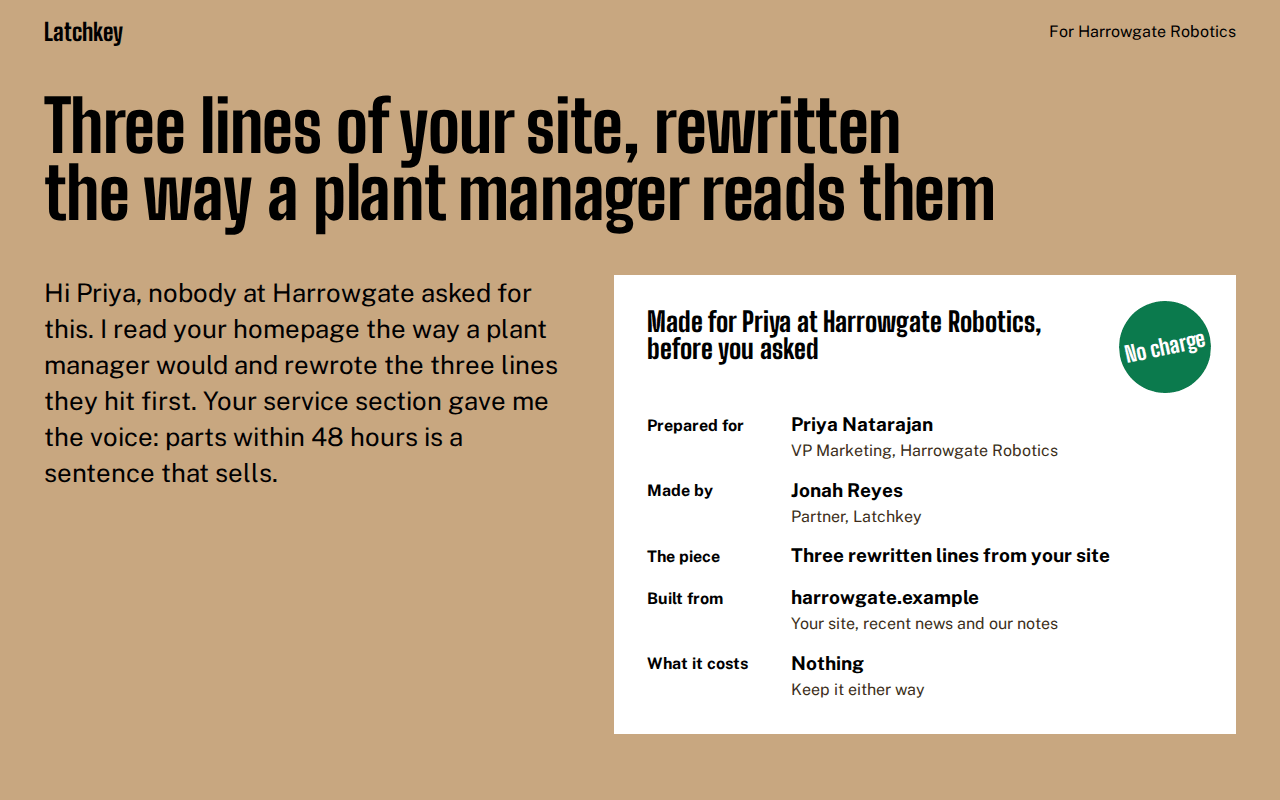
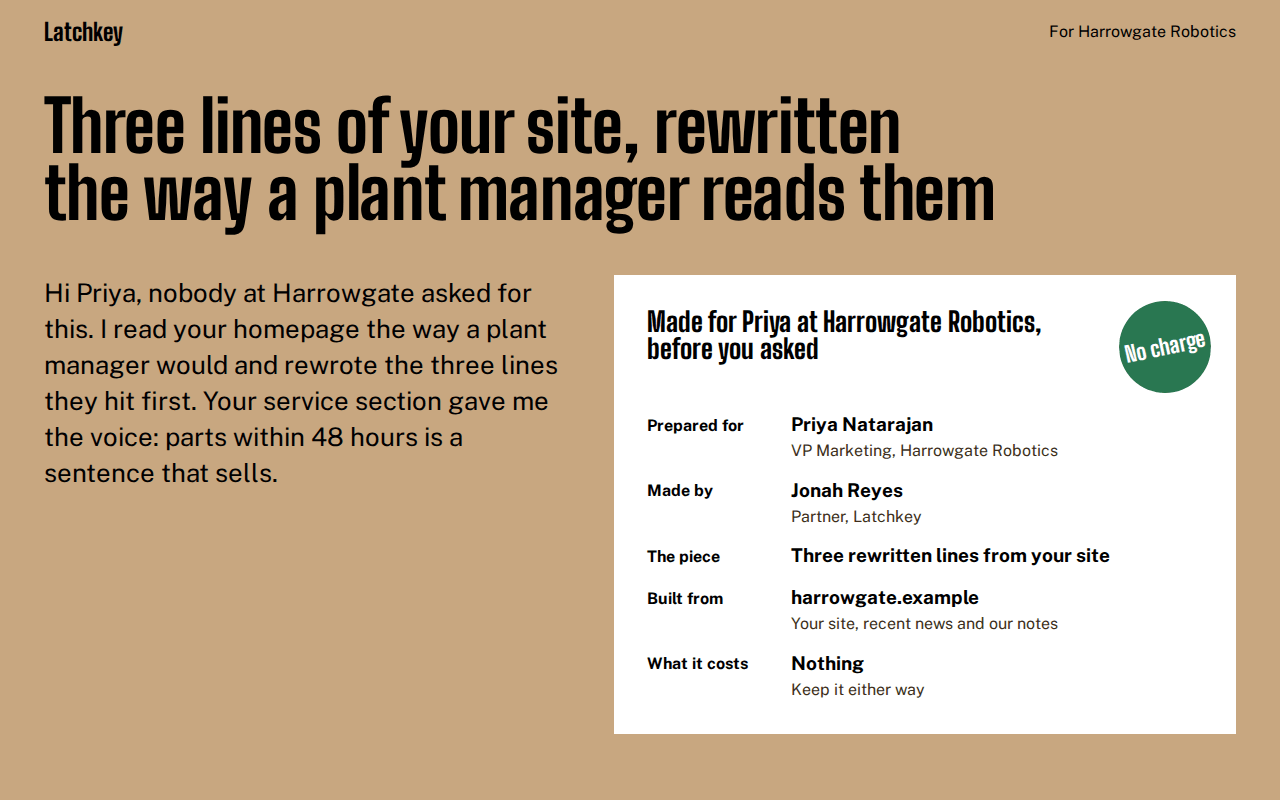
Library colour pass: sample-work, softer stamp green

Changed region(s): [[0.875, 0.375, 0.9688, 0.5]]

diff --git a/starters/sample-work/preview/harrowgate.html b/starters/sample-work/preview/harrowgate.html
@@ -9,7 +9,7 @@
 <link rel="stylesheet" href="https://fonts.googleapis.com/css2?family=Public+Sans:wght@400;700&display=swap">
 <style>
 :root{
-  --p:#0b7a4d;
+  --p:#297751;
   --s:#000000;
   --fh:'Big Shoulders Display',ui-sans-serif,system-ui,sans-serif;
   --fb:'Public Sans',ui-sans-serif,system-ui,sans-serif;
